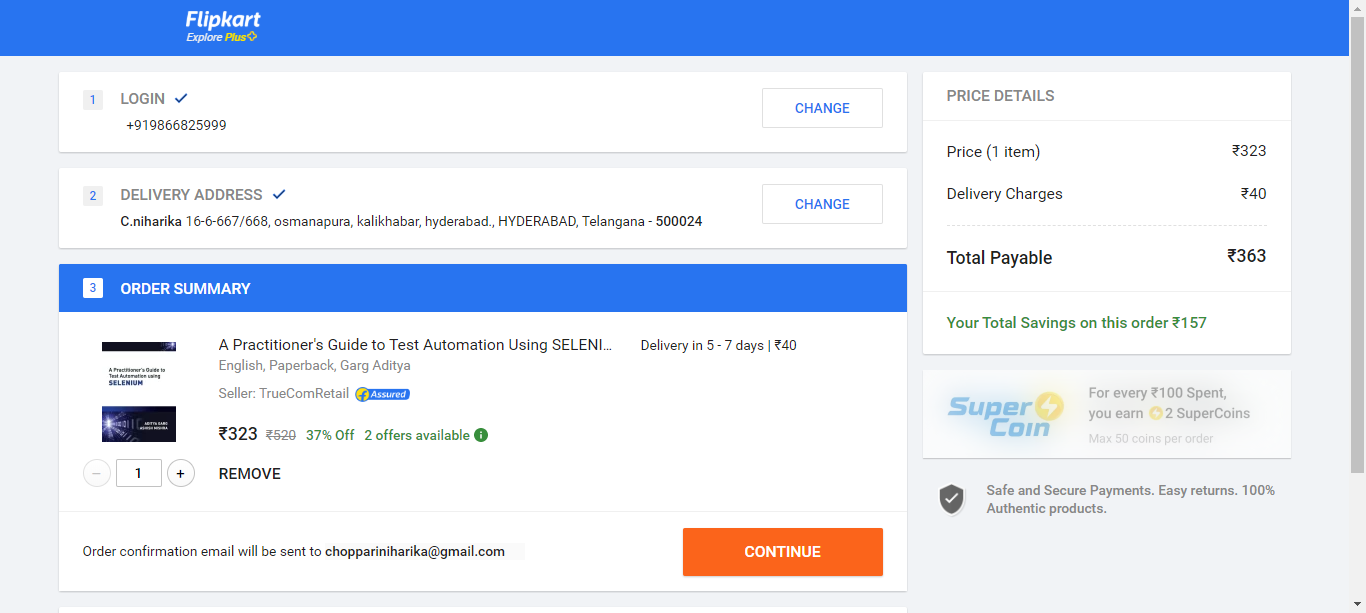
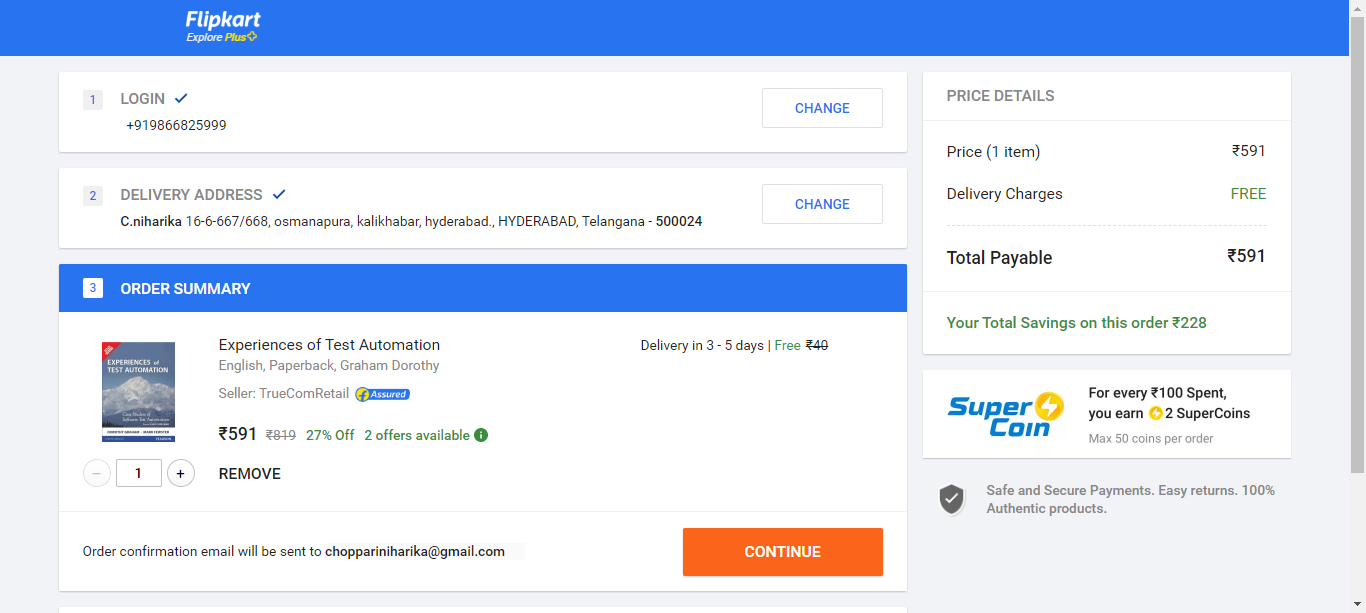
Implementation of flipkart automation script execution on multiple browsers

diff --git a/src/test/java/com/flipkart/test/LoginTest.java b/src/test/java/com/flipkart/test/LoginTest.java
@@ -1,10 +1,6 @@
 package com.flipkart.test;
 import org.testng.Assert;
 import org.testng.annotations.BeforeClass;
-<<<<<<< HEAD:src/test/java/com/flipkart/test/LoginTest.java
-=======
-import org.testng.annotations.Listeners;
->>>>>>> 5cdd365099376cbb27268492ba3727a7307797d2:src/test/java/com/flipkart/loginModule/LoginTest.java
 import org.testng.annotations.Parameters;
 import org.testng.annotations.Test;
 
@@ -14,7 +10,6 @@ import com.flipkart.pages.LogoutPage;
 
 public class LoginTest
 {
-<<<<<<< HEAD:src/test/java/com/flipkart/test/LoginTest.java
 		
 	LoginPage page;
 	LogoutPage page1;
@@ -25,11 +20,6 @@ public class LoginTest
 		page = new LoginPage();
 		page1 = new LogoutPage();
 	}
-=======
-
-	LoginPage page = new LoginPage();
-	LogoutPage page1 = new LogoutPage();
->>>>>>> 5cdd365099376cbb27268492ba3727a7307797d2:src/test/java/com/flipkart/loginModule/LoginTest.java
 	
 	@Test(priority = 1)
 	public void verifyUrl(){

diff --git a/src/main/java/com/flipkart/pages/AddToCartPage.java b/src/main/java/com/flipkart/pages/AddToCartPage.java
@@ -10,8 +10,8 @@ import com.flipkart.Basepage.BasePage;
 
 public class AddToCartPage extends BasePage {
 
-	public String productTitle = "Experiences of Test Automation  (English, Paperback, Graham Dorothy)";
-	public String productprice = "₹591";
+	 String productTitle = "Experiences of Test Automation  (English, Paperback, Graham Dorothy)";
+	 String productprice = "₹591";
 
 	@FindBy(xpath = "//div[@class='_2aUbKa']")
 	WebElement myAccount;
